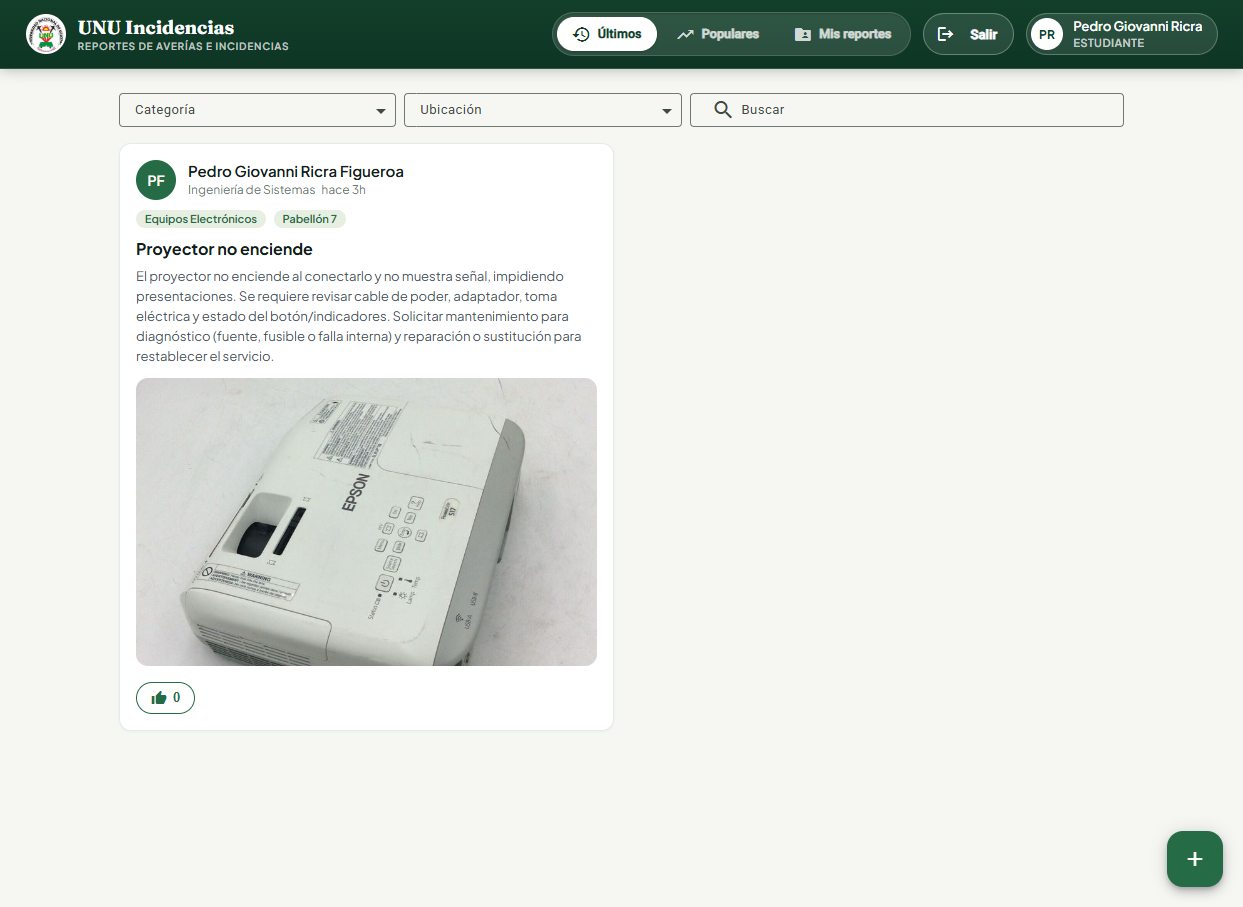
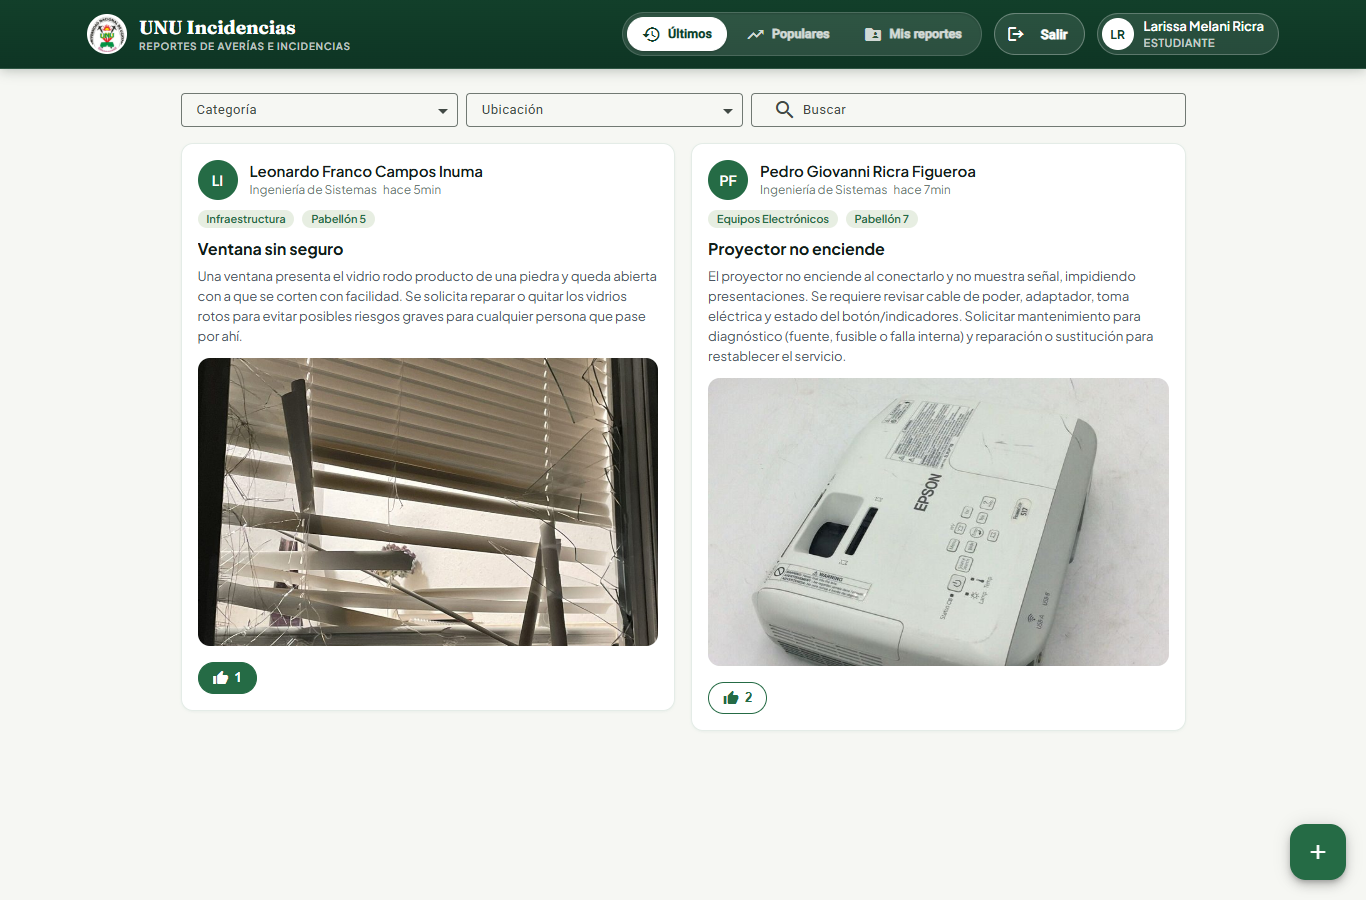
Actualización de capturas en PC y móvil

diff --git a/README.md b/README.md
@@ -15,7 +15,16 @@
 <p align="center">
   <img src="./img/login.png" alt="Inicio de sesión de Reportes UNU" width="640">
   <img src="./img/inicio-estudiante.png" alt="Feed de reportes del estudiante" width="640">
-  <img src="./img/visor-foto.png" alt="Visor de evidencia fotográfica" width="640">
+  <img src="./img/nuevo-reporte.png" alt="Formulario de nuevo reporte" width="640">
+  <img src="./img/panel-admin.png" alt="Panel del trabajador con reportes pendientes" width="640">
+  <img src="./img/detalle-reporte.png" alt="Detalle de incidencia con evidencia visual" width="640">
+  <img src="./img/datos-admin.png" alt="Dashboard de estadísticas" width="640">
+</p>
+
+<p align="center">
+  <img src="./img/login-movil.png" alt="Inicio de sesión en móvil" width="260">
+  <img src="./img/inicio-movil.png" alt="Feed del estudiante en móvil" width="260">
+  <img src="./img/panel-movil.png" alt="Panel del trabajador en móvil" width="260">
 </p>
 
 Los estudiantes crean reportes con foto, les dan like a los reportes aceptados y hacen
